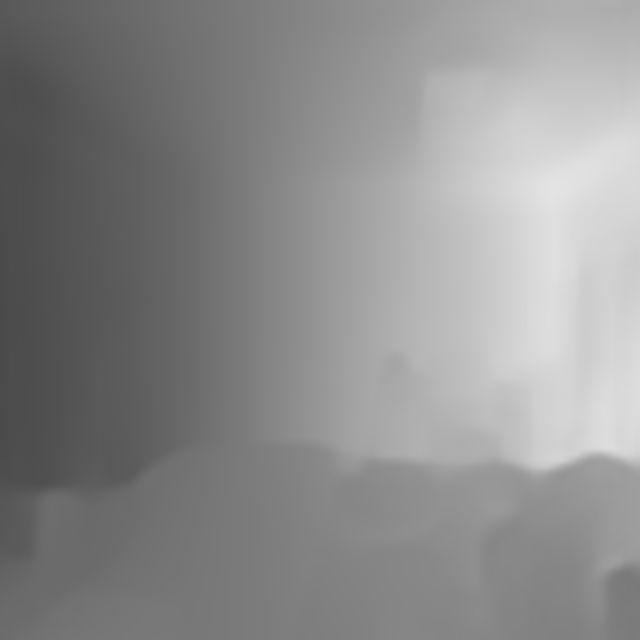
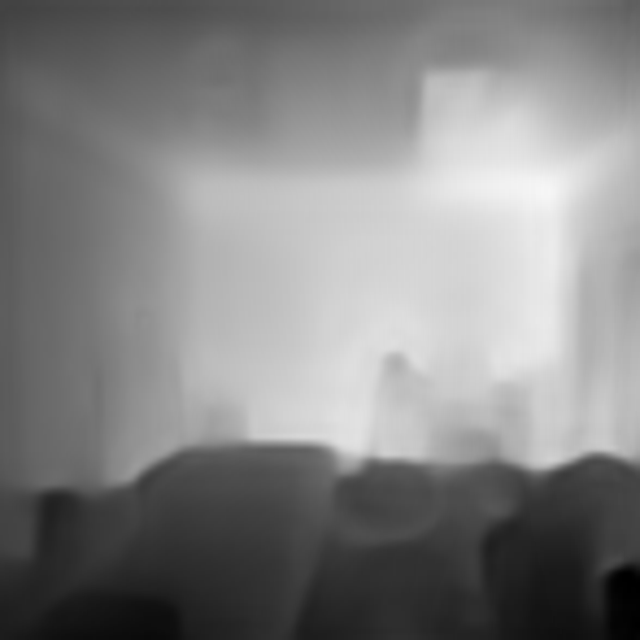
Added cube2sphere output to main script.

diff --git a/run.py b/run.py
@@ -23,17 +23,32 @@ def mapImage(function, image):
 
 
 def depthPrediction(image, output):
-    return not os.system('python %s/depth/runNeuralNet.py %s %s  > nul 2>&1' % (path, image, output))
+    return not os.system('python %s/depth/runNeuralNet.py %s %s  > nul 2>&1' %
+                         (path, image, output))
+
+
+def cube2sphere(faces, output):
+    try:
+        os.remove(output + '0001.png')
+    except OSError:
+        pass
+    os.system('cube2sphere %s %s %s %s %s %s -fPNG -o %s' %
+              (faces(0), faces(2), faces(1), faces(3), 'black.png',
+               'black.png', output))
+    flipped = cv2.imread(output + '0001.png')
+    cv2.imwrite(output, cv2.flip(flipped, 1))
+    os.remove(output + '0001.png')
 
 
 if __name__ == "__main__":
-    if(len(sys.argv) < 2):
+    if (len(sys.argv) < 2):
         image = 'input.jpg'
     else:
         image = sys.argv[1]
 
-    def filename(
-        name): return lambda number: os.path.join(path, 'results', 'partial', name, str(number) + '.png')
+    def filename(name):
+        return lambda number: os.path.join(path, 'results', 'partial', name, str(number) + '.png')
+
     rotated = filename('rotated')
     crop = filename('crop')
     depth = filename('depth')
@@ -47,6 +62,7 @@ if __name__ == "__main__":
     run_depth_prediction = False
     run_weighting = True
     reconstruct_sphere = True
+    use_cube2sphere = True
     reconstruct_in = weighted
     fov_h = 89.99  # 60.0
     fov = (90, 90)
@@ -57,7 +73,7 @@ if __name__ == "__main__":
     depth_values = []
     img_size = 640
     for i, (phi, theta) in enumerate(angles):
-        if(run_depth_prediction):
+        if (run_depth_prediction):
             print('Cropping at %s, %s' % (theta, phi))
 
             alpha, beta, gamma = np.radians([0, phi, -theta])
@@ -72,7 +88,7 @@ if __name__ == "__main__":
                 print('ERROR projecting perspective image.')
 
             print("%s - Begin depth prediction..." % i)
-            if(depthPrediction(crop(i), depth(i))):
+            if (depthPrediction(crop(i), depth(i))):
                 print("%s - Depth prediction OK." % i)
             else:
                 print("%s - ERROR during depth prediction." % i)
@@ -83,12 +99,13 @@ if __name__ == "__main__":
     weights = per_edge_weights(np.array(depth_values))
     print(weights)
 
-    if(run_weighting):
+    if (run_weighting):
         new_depths = []
         for i in range(len(weights)):
             w1, w2 = weights[i]
-            new_img = mapImage(lambda pixel, i, j: (
-                pixel * ((img_size - j) * w1 + j * w2) / float(img_size)), depth_values[i])
+            new_img = mapImage(
+                lambda pixel, i, j: (pixel * ((img_size - j) * abs(w1) + j * abs(w2)) / float(img_size)),
+                depth_values[i])
             new_depths.append(new_img)
         new_depths = np.array(new_depths)
         maxValue = np.amax(new_depths)
@@ -96,26 +113,31 @@ if __name__ == "__main__":
         print("Max: %s, Min: %s" % (maxValue, minValue))
         for i in range(len(weights)):
             weighted_image = mapImage(
-                lambda p, i, j: (p - minValue) /
-                (maxValue - minValue) * 255,
+                lambda p, i, j: (p - minValue) / (maxValue - minValue) * 255,
                 new_depths[i])
             cv2.imwrite(weighted(i), weighted_image)
 
     # Reconstruct sphere
-    if(reconstruct_sphere):
-        reconstructed = np.zeros((input_size[0], input_size[1]))
-        for i, (phi, theta) in enumerate(angles):
+    if (reconstruct_sphere):
+        if (use_cube2sphere):
+            cube2sphere(weighted, 'results/reconstruction_weighted.jpg')
+            cube2sphere(depth, 'results/reconstruction_depth.jpg')
+        else:
+            reconstructed = np.zeros((input_size[0], input_size[1]))
+            for i, (phi, theta) in enumerate(angles):
 
-            alpha, beta, gamma = np.radians([0, phi, -theta])
+                alpha, beta, gamma = np.radians([0, phi, -theta])
 
-            if perspectiveToEquirectangular(reconstruct_in(i), rotated(i), fov_h, crop_size, crop_size, reprojected(i), validmap(i)):
-                print('Reprojecting %s...' % i)
-            else:
-                print('ERROR projecting back to equirectangular.')
+                if perspectiveToEquirectangular(
+                        reconstruct_in(i), rotated(i), fov_h, crop_size,
+                        crop_size, reprojected(i), validmap(i)):
+                    print('Reprojecting %s...' % i)
+                else:
+                    print('ERROR projecting back to equirectangular.')
 
-            rotateBack(reprojected(i), alpha, beta,
-                       gamma, writeToFile=output(i))
-            rotateBack(validmap(i), alpha, beta,
-                       gamma, writeToFile=outputmap(i))
-            reconstructed += cv2.imread(output(i), 0)
-        cv2.imwrite('reconstruction.jpg', reconstructed)
+                rotateBack(
+                    reprojected(i), alpha, beta, gamma, writeToFile=output(i))
+                rotateBack(
+                    validmap(i), alpha, beta, gamma, writeToFile=outputmap(i))
+                reconstructed += cv2.imread(output(i), 0)
+            cv2.imwrite('results/reconstruction_weighted.jpg', reconstructed)

diff --git a/weights/cubeMap.py b/weights/cubeMap.py
@@ -41,21 +41,13 @@ def right(scan, edge_length):
     return edge_length - 1, scan
 
 
-center_edges = [
-    (0, right, 1, left),
-    (1, right, 2, left),
-    (2, right, 3, left),
-    (3, right, 0, left)]
+center_edges = [(0, right, 1, left), (1, right, 2, left), (2, right, 3, left),
+                (3, right, 0, left)]
 
-pole_edges = [
-    (4, top, 2, top_inv),
-    (4, left, 3, top),
-    (4, bottom, 0, top),
-    (4, right, 1, top_inv),
-    (5, top, 0, bottom),
-    (5, left, 3, bottom_inv),
-    (5, bottom, 2, bottom_inv),
-    (5, right, 1, bottom)]
+pole_edges = [(4, top, 2, top_inv), (4, left, 3, top), (4, bottom, 0, top),
+              (4, right, 1, top_inv), (5, top, 0, bottom),
+              (5, left, 3, bottom_inv), (5, bottom, 2,
+                                         bottom_inv), (5, right, 1, bottom)]
 
 
 def add_equations_to_system(system, edge, edge_length, images, num_weights):
@@ -74,8 +66,8 @@ def single_weights(images, exclude_poles=True):
     num_images = (4 if exclude_poles else 6)
     num_weights = num_images
 
-    assert(images.shape[0] == num_images)
-    assert(images.shape[1] == images.shape[2])
+    assert (images.shape[0] == num_images)
+    assert (images.shape[1] == images.shape[2])
     image_size = images.shape[1]
 
     # Non-pole edges are a special, simpler case.
@@ -105,8 +97,8 @@ def single_weights(images, exclude_poles=True):
 def per_edge_weights(images, exclude_poles=True):
     num_images = (4 if exclude_poles else 6)
 
-    assert(images.shape[0] == num_images)
-    assert(images.shape[1] == images.shape[2])
+    assert (images.shape[0] == num_images)
+    assert (images.shape[1] == images.shape[2])
     image_size = images.shape[1]
 
     # Non-pole edges are a special, simpler case.
@@ -130,10 +122,10 @@ def per_edge_weights(images, exclude_poles=True):
         system = np.array(system)
         u, s, v = np.linalg.svd(system)
         weights[(plane_a, plane_b)] = v[-1]
-
     output = [(0, 0) for x in range(num_images)]
     for i in range(num_images):
-        for (left_image, right_image), (left_weight, right_weight) in weights.iteritems():
+        for (left_image, right_image), (left_weight,
+                                        right_weight) in weights.iteritems():
             if i == left_image:
                 output[i] = (output[i][0], left_weight)
             elif i == right_image:
